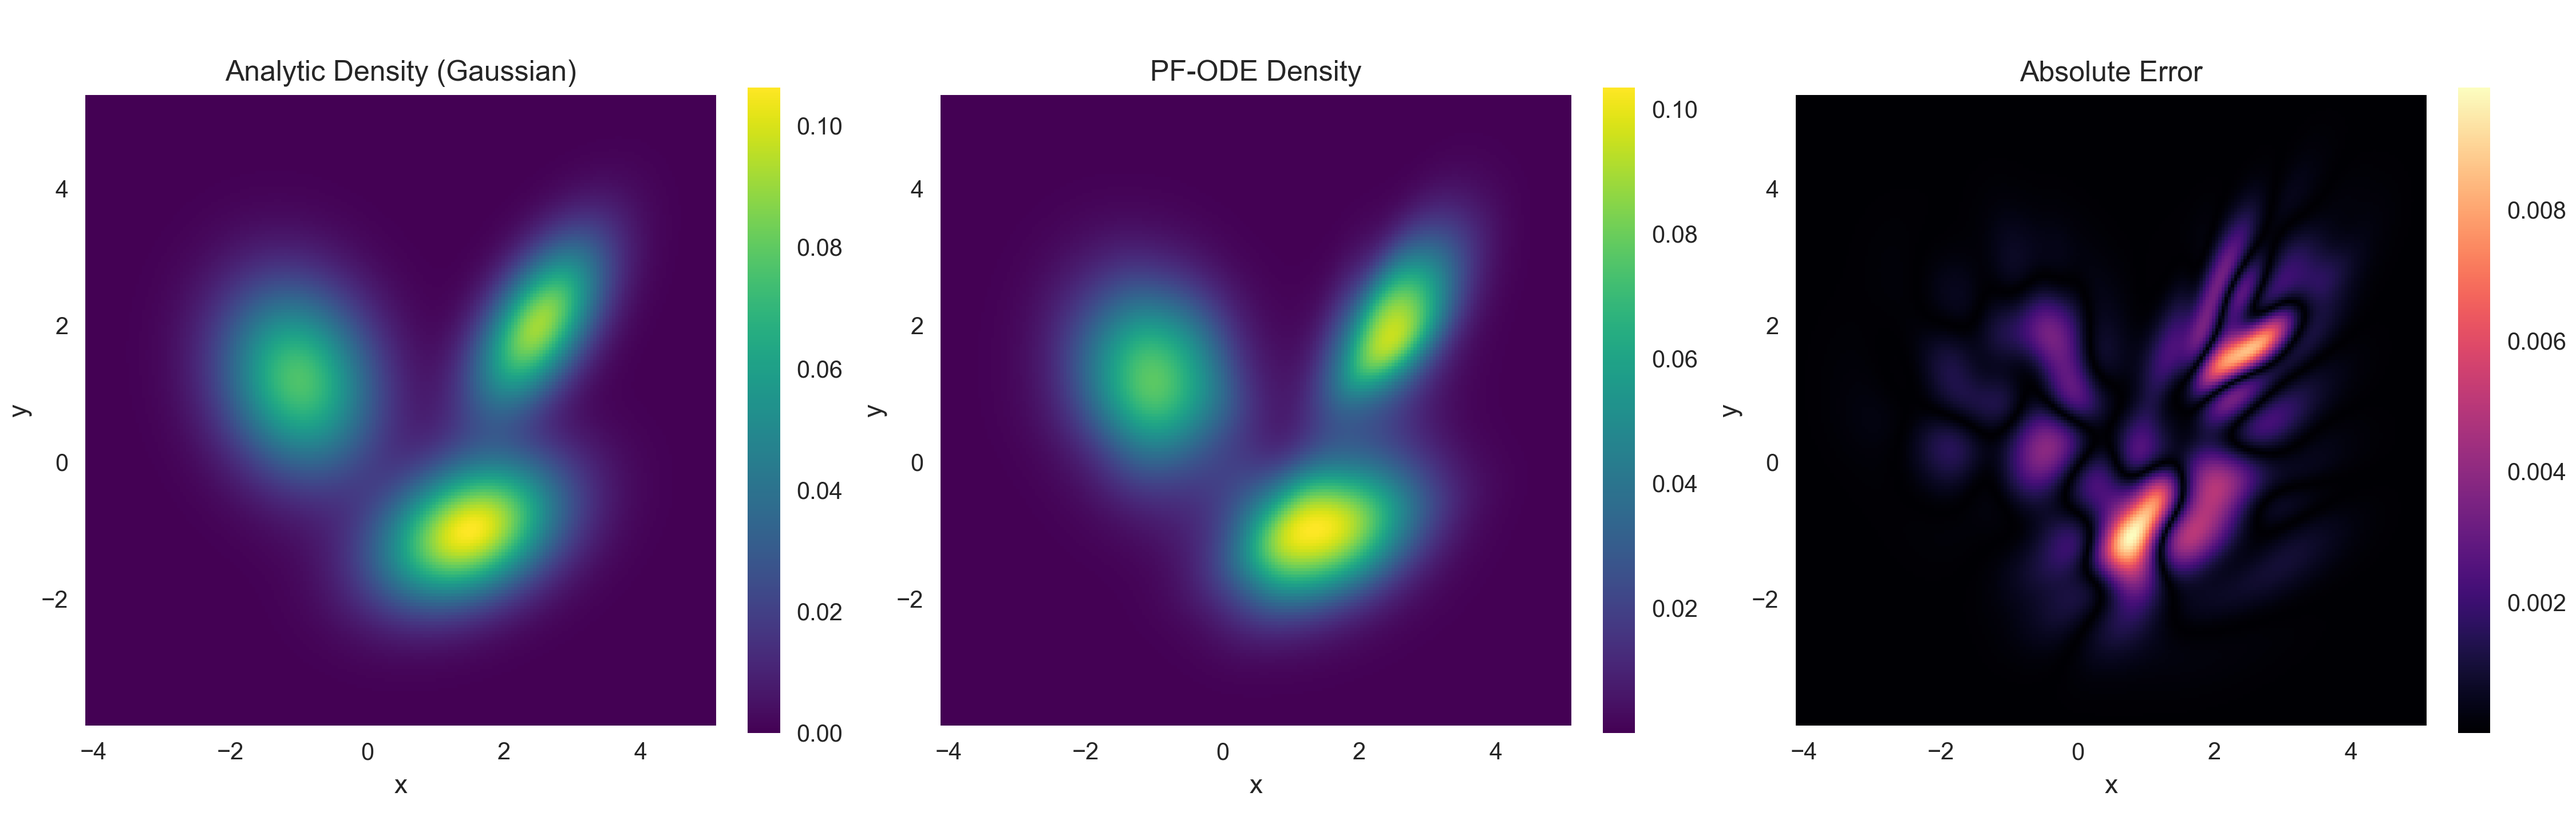
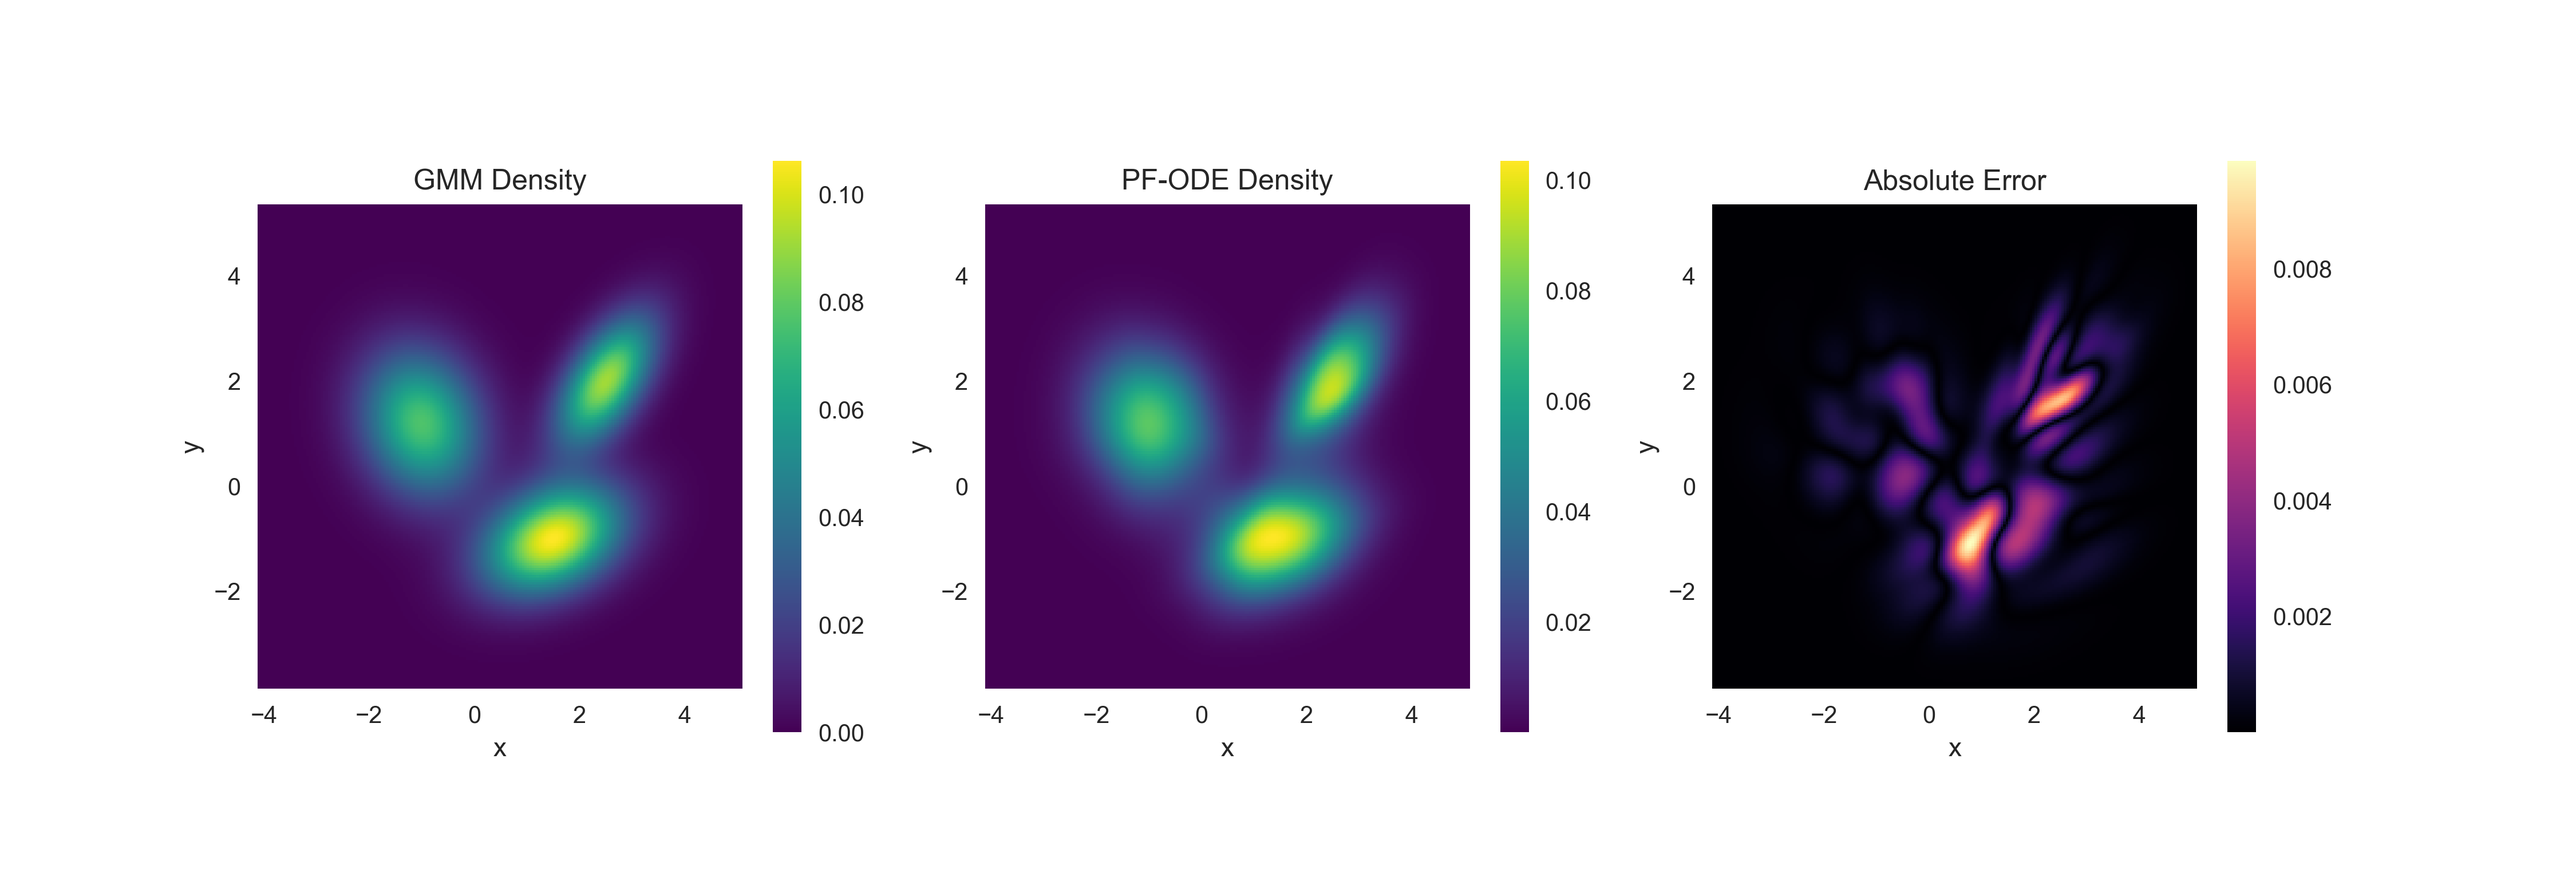
final_version01

diff --git a/show_density_heatmap.py b/show_density_heatmap.py
@@ -178,13 +178,13 @@ def main() -> None:
     abs_error = np.abs(model_density - analytic_density)
 
     plt.style.use("seaborn-v0_8")
-    fig, axes = plt.subplots(1, 3, figsize=(15, 4.8), constrained_layout=True)
+    fig, axes = plt.subplots(1, 3, figsize=(15, 5.2))
 
     density_cmap = plt.get_cmap("viridis")
     error_cmap = plt.get_cmap("magma")
 
     im0 = axes[0].pcolormesh(grid_x, grid_y, analytic_density, shading="auto", cmap=density_cmap)
-    axes[0].set_title("Ground Truth Density")
+    axes[0].set_title("GMM Density")
     axes[0].set_xlabel("x")
     axes[0].set_ylabel("y")
     fig.colorbar(im0, ax=axes[0], shrink=0.8)
@@ -203,6 +203,8 @@ def main() -> None:
 
     for ax in axes:
         ax.set_aspect("equal")
+
+    fig.subplots_adjust(left=0.10, right=0.90, bottom=0.10, top=0.90)
 
     fig.savefig(output_path, dpi=300)
     print(f"Saved heatmaps to {output_path}")

diff --git a/config.py b/config.py
@@ -16,8 +16,8 @@ config = {
     "loss_time_gamma": 2.2,
     "loss_time_reweight": False,
     "loss_time_weight_max": 0.0,
-    "hidden": 256,  # 从128增加到256
-    "layers": 4,   # 从8增加到10
+    "hidden": 64,  # 从128增加到256
+    "layers": 3,   # 从8增加到10
     "t_embed_dim": 64,
     "batch_size": 128,
     "epochs": 3500,  # 训练更久
@@ -27,13 +27,12 @@ config = {
     "lambda_gamma": 1.0,  # 降低权重的影响，更平衡地训练所有时间步
     #正则项惩罚动态调整
     "curl":True,
-
     "num_steps": 5000,
     "snr": 0.08,
     "corrector_steps": 2,
     "scatter_alpha": 0.5,
     "scatter_size": 10,
-    "config_path":"vp_sde_2d_best_gmm_regularization.pt"
+    "config_path":"vp_sde_2d_best_gmm.pt"
 }
          
 
